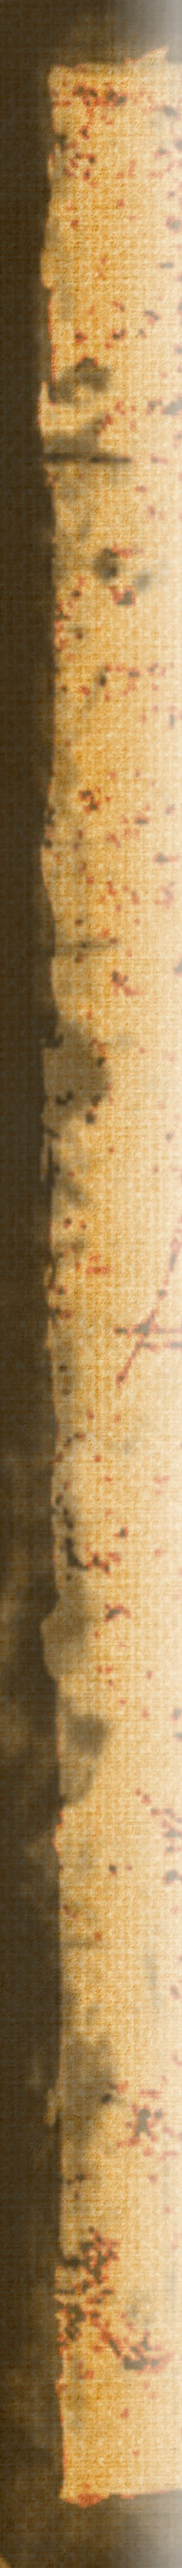
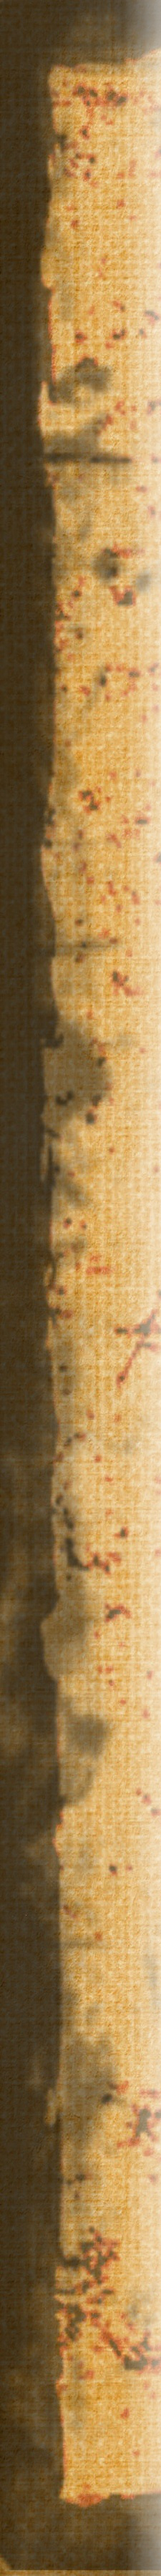
new left side of frame

diff --git a/styles.css b/styles.css
@@ -60,7 +60,7 @@ a:ACTIVE {
 	position: absolute;
 	left: 7%;
 	right: 7%;
-	top: 4%;
+	top: 8%;
 	height: 4%;
 	width: 86%;
 	z-index: 1;
@@ -69,7 +69,7 @@ a:ACTIVE {
 	position: absolute;
 	left: 7%;
 	right: 7%;
-	top: 79%;
+	top: 83%;
 	height: 4%;
 	width: 86%;
 	z-index: 1;
@@ -77,9 +77,9 @@ a:ACTIVE {
 
 #mapBorderRight {
 	position: absolute;
-	left: 93%%;
+	left: 90%;
 	right: 7%;
-	top: 4%;
+	top: 8%;
 	height: 79%;
 	width: 4%;
 	z-index: 1;
@@ -88,7 +88,7 @@ a:ACTIVE {
 	position: absolute;
 	left: 7%;
 	right: 86%;
-	top: 4%;
+	top: 8%;
 	height: 79%;
 	width: 4%;
 	z-index: 1;
@@ -98,7 +98,7 @@ a:ACTIVE {
 	position: absolute;
 	left: 10%;
 	right: 10%;
-	top: 7%;
+	top: 11%;
 	bottom: 20%;
 	height: 73%;
 	width: 80%;
@@ -114,7 +114,7 @@ a:ACTIVE {
 
 #slide {
 	position: absolute;
-	bottom: 10%;
+	bottom: 4%;
 	width: 80%;
 	left: 10%;
 }
